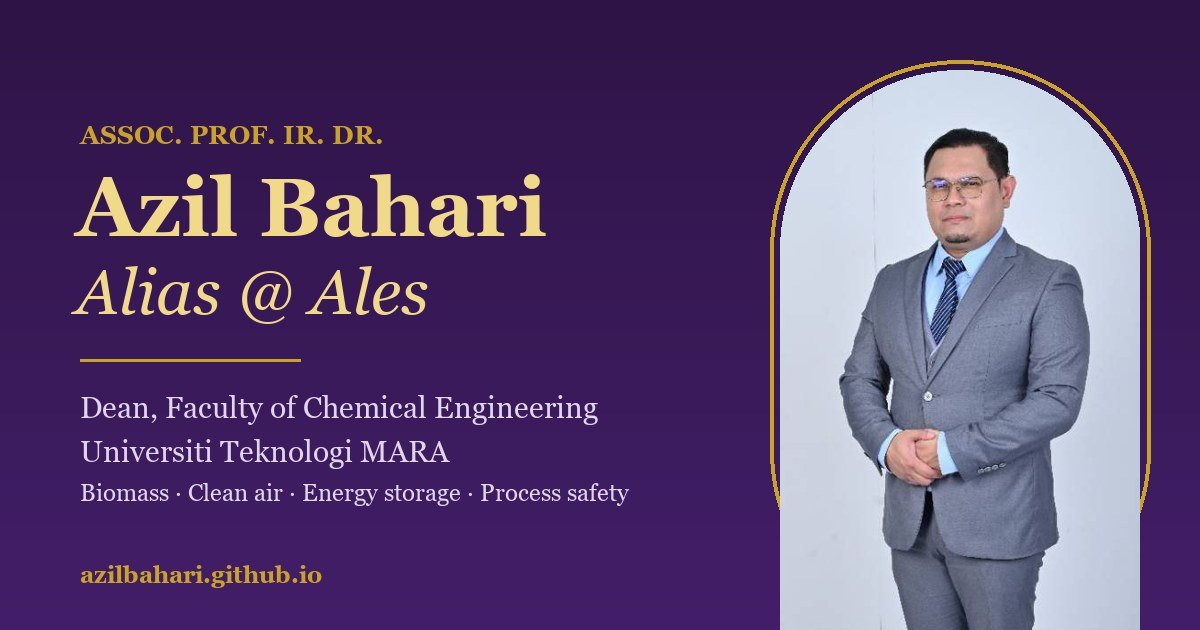
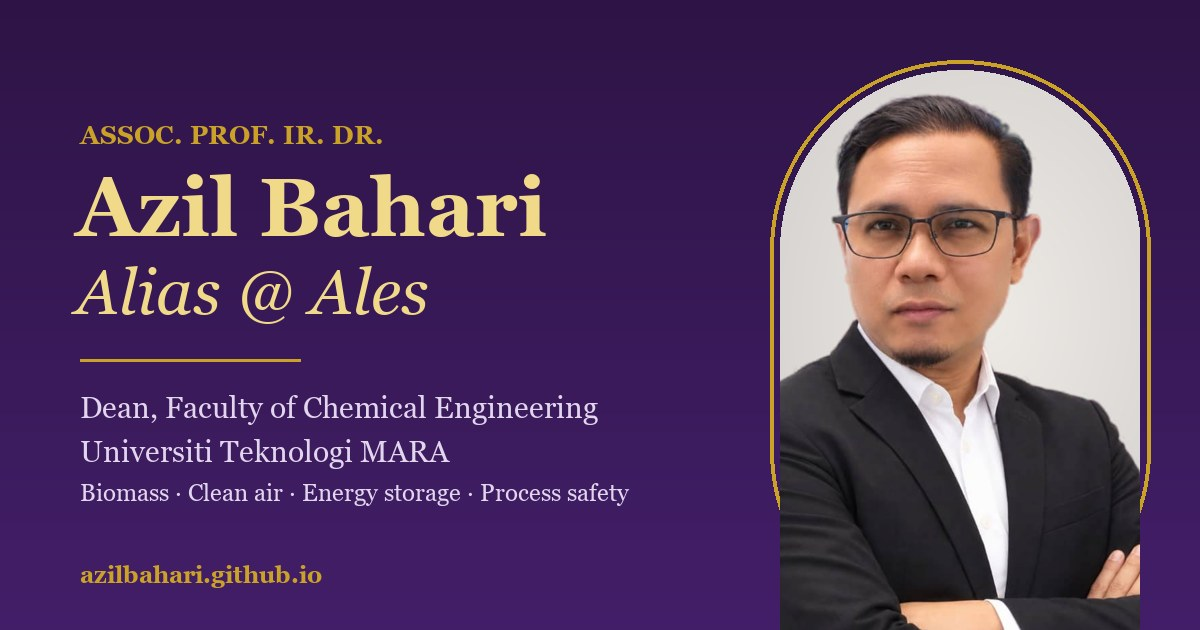
Update portrait

Changed region(s): [[0.6475, 0.1206, 0.9558, 1.0]]

diff --git a/press.html b/press.html
@@ -45,7 +45,7 @@
 <section class="pk-sec" aria-labelledby="pk-photos"><p class="pk-num">03</p><div>
  <h2 id="pk-photos">Photographs</h2>
  <div class="pk-photos">
-  <figure><img src="img/portrait.jpg" alt="Portrait of Dr Azil Bahari Alias" width="664" height="1000" loading="lazy"><figcaption>Formal portrait · 664 × 1000 JPG <a href="img/portrait.jpg" download="azil-bahari-portrait.jpg">Download</a></figcaption></figure>
+  <figure><img src="img/portrait.jpg" alt="Portrait of Dr Azil Bahari Alias" width="826" height="1080" loading="lazy"><figcaption>Formal portrait · 826 × 1080 JPG <a href="img/portrait.jpg" download="azil-bahari-portrait.jpg">Download</a></figcaption></figure>
   <figure><img src="img/portrait-office.jpg" alt="Dr Azil Bahari Alias in his office" width="765" height="573" loading="lazy"><figcaption>In the office · 765 × 573 JPG <a href="img/portrait-office.jpg" download="azil-bahari-office.jpg">Download</a></figcaption></figure>
   <figure><img src="img/ican-dean.jpg" alt="Dr Azil Bahari Alias on his appointment as Dean of ICAN, College of Engineering" width="1080" height="810" loading="lazy"><figcaption>Appointed Dean of ICAN · 1080 × 810 JPG <a href="img/ican-dean.jpg" download="azil-bahari-ican-dean.jpg">Download</a></figcaption></figure>
  </div>

diff --git a/style.css b/style.css
@@ -90,7 +90,7 @@ body:not(.p-index) main+.braid{height:3px;background:var(--gold)}
 .arch{position:relative;justify-self:end;width:min(420px,100%);margin:0}
 .arch .frame{aspect-ratio:4/5;border-radius:999px 999px 0 0;overflow:hidden;background:#e8e3ec;outline:2px solid var(--gold);outline-offset:8px;margin:10px 10px 0;
   box-shadow:0 40px 70px -30px rgba(0,0,0,.7)}
-.arch img{width:100%;height:100%;object-fit:cover;object-position:50% 8%;transform:scale(1.2);transform-origin:50% 0}
+.arch img{width:100%;height:100%;object-fit:cover;object-position:50% 0}
 .arch figcaption{font-size:15px;color:#cfbfe2;padding:22px 0 26px 10px;max-width:34ch}
 .arch figcaption::before,.ph figcaption::before{content:"";display:block;width:40px;height:1px;background:var(--gold);margin-bottom:8px}
 

diff --git a/sw.js b/sw.js
@@ -1,5 +1,5 @@
 // Service worker: network-first for HTML (fresh pages, cached copy offline), cache-first for static assets.
-var V = 'azil-20261027190512';
+var V = 'azil-20261027202215';
 var CORE = ['offline.html'];
 self.addEventListener('install', function (e) {
   e.waitUntil(caches.open(V).then(function (c) { return c.addAll(CORE); }).then(function () { return self.skipWaiting(); }));
